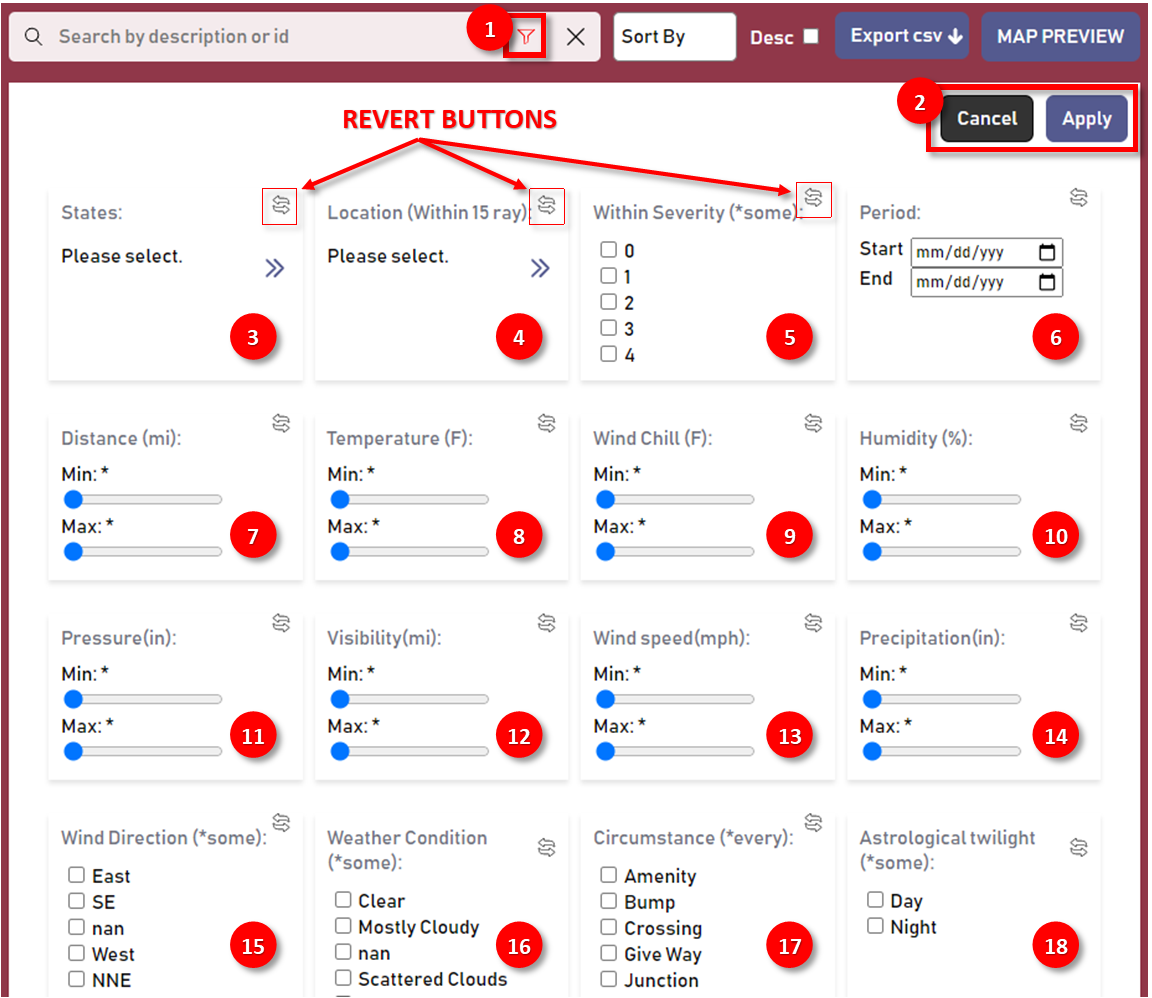
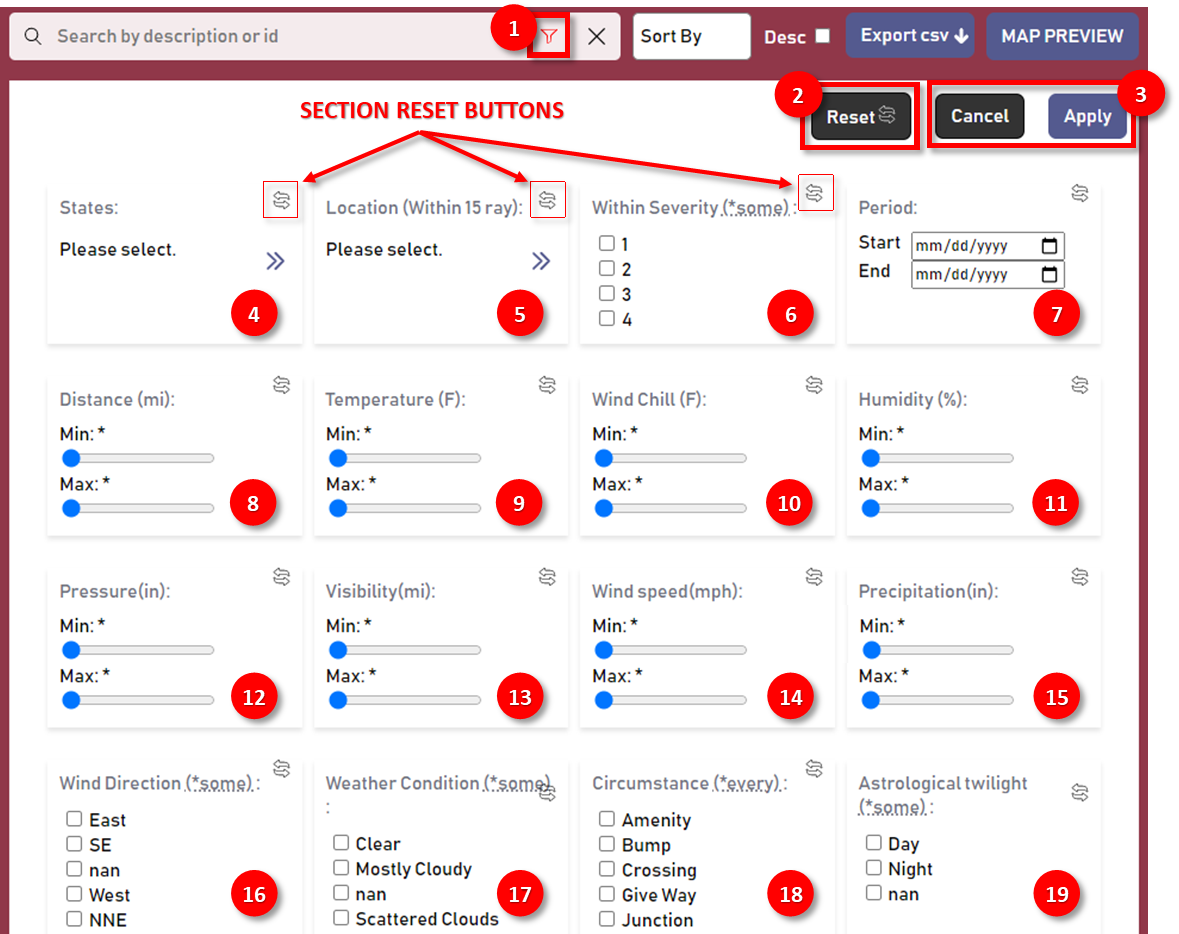
chart page documentation

diff --git a/Views/Report.php b/Views/Report.php
@@ -429,13 +429,13 @@
                     <h3><span>3.1.1.1 </span> Result item template</h3>
                     
                     <figure class="report-centered-fig">
-                        <img src="/assets/images/report/accident-card.png" alt="">
+                        <img src="/assets/images/report/accident-card.png" alt="Result item template">
                         <figcaption>Fig. 1 - Result item template</figcaption>
                     </figure>
                     
                     <ol>
                         <li><strong>Date and time of the accident,</strong> required not only for the chronological placement but also for creating meaningful and accurate forecasts, correlations with other events and factors that can affect the evolution of the number of the accidents.</li>
-                        <li><strong>Severity</strong>, describes the severity of the accidents, starting with 0 for highly severe to 4 for the least severe</li>
+                        <li><strong>Severity</strong>, describes the severity of the accidents, starting with 1 for highly severe to 4 for the least severe.</li>
                         <li><strong>ID</strong>, it is a number that helps users and other systems uniquely identify each accident.</li>
                         <li><strong>City </strong>and <strong>State </strong>where the accident happened, the state name is abbreviated for clarity reasons.</li>
                         <li><strong>Description</strong>, is a brief explanation of the location, cause or other significant details regarding the accident with the scope of providing the reader with a better understanding of the situation.</li>
@@ -450,19 +450,19 @@
                 <section id="extIntReqUISearchPageSearch">
                     <h3><span>3.1.1.1 </span> Search input</h3>
                     
-                        The goal of this section is to filter results using user input and access some other hidden section (the filter section that is hidden).
+                        The goal of this section is to filter results using user input and access some other hidden section (e.g. the hidden filter area).
                     <figure class="report-centered-fig">
                         <img src="/assets/images/report/search-bar.png" alt="Search bar">
                         <figcaption>Fig. 2 - Search bar</figcaption>
                     </figure>
                     
                     <ol>
-                        <li><strong>Search box</strong>. Offers users the possibility to search accidents by description or id.</li>
-                        <li><strong>Search button</strong>. The users need to press the search button after they entered the text they wish to search in order to get the desired results.</li>
-                        <li><strong>Revert search button</strong>. This button is used for reverting the search results to the standard, unfiltered status. It will not change the &quot;Sort by&quot; button status therefore the order of the results will not change.</li>
-                        <li><strong>Filter button</strong>. Used for displaying the filter section that helps the advanced users to retrieve more accurate and specific data.</li>
-                        <li><strong>Sort button</strong>. When accessed, this button displays a list of 14 characteristics (e.g. State, Location, Severity) that can be used for sorting the results. Once the user selects one of these options, the system starts the search and then displays the results sorted by it. For reverting it, the user must select the Sort by option from the list.</li>
-                        <li><strong>Descending order checkbox</strong>. By checking this, the results will be ordered descending and ascending if it is unchecked. The changes will be immediately visible after checking/unchecking it therefore the user does not need to press the search button again.</li>
+                        <li><strong>Search box</strong>, offers users the possibility to search accidents by description or id.</li>
+                        <li><strong>Search button</strong>, the users need to press the it after they entered the text they wish to search in order to get the desired results.</li>
+                        <li><strong>Revert search button</strong>, used for reverting the search results to the standard, unfiltered status. It will not change the &quot;Sort by&quot; button status therefore the order of the results will not change.</li>
+                        <li><strong>Filter button</strong>, used for displaying the filter section that helps the advanced users to retrieve more accurate and specific data.</li>
+                        <li><strong>Sort button</strong>, when accessed, this button displays a list of 14 characteristics (e.g. State, Location, Severity) that can be used for sorting the results. Once the user selects one of these options, the system starts the search and then displays the results sorted by it. For reverting it, the user must select the "Sort by" option from the list.</li>
+                        <li><strong>Descending order checkbox</strong>, by checking this, the results will be ordered descending or ascending if it is unchecked. The changes will be immediately visible after checking/unchecking it therefore the user does not need to press the search button again.</li>
                     </ol>
                     <p>
                         The buttons and inputs are disabled while a search is in progress. Another indicator of a search being in progress is the loader present in place of the results.
@@ -476,83 +476,98 @@
                 <!-- SEARCH-PAGE ->>> FILTER SECTION -->
                 <section id="extIntReqUISearchPageFilter">
                     <h3><span>3.1.1.2 </span> Filter section</h3>
-                    <p>The filter area is hidden but can be toggled using the button from the search bar described in the previous section. The filter area is clustered into 16 different groups, and each of these has its own reset button. In this way, the user can revert a filtering criterion without affecting the others. For the results to reflect the changes after resetting a group, the user must press the Apply button or Cancel otherwise. If the user wants to exit the filter area, he can press the Cancel button or click in the area outside of it.
-                    </p>
+                    <p>The filter area is hidden but can be toggled using the button from the search bar described in the previous section.</p> 
+                    <p>The filter area is clustered into 16 different groups, and each of these has its own reset button. In this way, the user can revert a filtering criterion without affecting the others. For the results to reflect the changes after resetting a group, the user must press the Apply button or Cancel otherwise.</p>
                     <figure class="report-centered-fig">
-                        <img src="/assets/images/report/filter-section.png" alt="Search in progress">
+                        <img src="/assets/images/report/filter-section.png" alt="Filter section">
                         <figcaption>Fig. 4 - Filter section</figcaption>
                     </figure>
                     <ul>
                         <li><strong>1. Filter toggle button</strong>, used for displaying the filter section.</li>
-                        <li><strong>2. Cancel and Apply buttons</strong>, used for applying or canceling the filtering criteria entered by the user. </li>
+                        <li><strong>2. Reset button</strong>, has almost the same behaviour as the individual group reset button, with the difference that this resets the values for all filtering groups.</li>
+                        <li><strong>3. Cancel and Apply buttons</strong>, used for applying or canceling the filtering criteria entered by the user. </li>
                         <li>
-                            <strong>3. State</strong>, enables users to get the accidents only from some specific states. For this, users must press the arrow button that will pop out a window with the 49 states of the US to select the desired states (Fig. 5). After checking them, the user must press the Apply or Cancel in order for the settings to appear or not. When the Apply button is selected, the states will be shown as in Fig. 6. From this view, if the user changes their mind, he can press the x button after the state name, and it will be excluded from the filter. If the user wants to add more states, he can click the arrow button again and repeat the process.
+                            <strong>4. State</strong>, enables users to get the accidents only from some specific states. For this, users must press the arrow button that will pop out a window with the 49 states of the US to select the desired states (Fig. 5). After checking them, the user must press the Apply or Cancel in order for the settings to appear or not. When the Apply button is selected, the states will be shown as in Fig. 6. From this view, if the user changes their mind, he can press the x button after the state name, and it will be excluded from the filter. If the user wants to add more states, he can click the arrow button again and repeat the process.
                             <div class="inline-figures">
                                 <figure>
-                                    <img src="/assets/images/report/states-pop-up.png" alt="Search in progress">
+                                    <img src="/assets/images/report/states-pop-up.png" alt="Pop up with the state list">
                                     <figcaption>Fig. 5 - Pop up with the state list</figcaption>
                                 </figure>
                                 <figure>
-                                    <img src="/assets/images/report/selected-states.png" alt="Search in progress">
+                                    <img src="/assets/images/report/selected-states.png" alt="View of the selected states">
                                     <figcaption>Fig. 5 - View of the selected states</figcaption>
                                 </figure>
                             </div>
                         </li>
                         <li>
-                            <strong>4. Location (Within 15 ray)</strong>, enables users to retrieve the accidents that are located within a 15 ray of the location selected by them on the map (Fig. 6) that will pop out after clicking the arrow button from this section. In the map pop up, the user can select a location by clicking it on the map then the selected coordinates will appear in the right bottom corner. For an accurate localization, the users can zoom in or out using the mouse wheel or the "+" or "-" buttons on the left top corner. The users can visualise the different areas of the map using drag and drop movements. In the end, the user should press the Apply button if he wants to keep the settings, otherwise the Cancel button. After the selection is made, the coordinates will be shown as in Fig. 7.
+                            <strong>5. Location (Within 15 ray)</strong>, enables users to retrieve the accidents that are located within a 15 ray of the location selected by them on the map (Fig. 6) that will pop out after clicking the arrow button from this section. In the map pop up, the user can select a location by clicking it on the map then the selected coordinates will appear in the right bottom corner. For an accurate localization, the users can zoom in or out using the mouse wheel or the "+" or "-" buttons on the left top corner. The users can visualize the different areas of the map using drag and drop movements. In the end, the user should press the Apply button if he wants to keep the settings, otherwise the Cancel button. After the selection is made, the coordinates will be shown as in Fig. 7.
                             <div class="inline-figures">
                                 <figure>
-                                    <img src="/assets/images/report/map-pop-up.png" alt="Map pop up">
+                                    <img src="/assets/images/report/map-pop-up.png" alt="Pop up with the map">
                                     <figcaption>Fig. 6 - Pop up with the map</figcaption>
                                 </figure>
                                 <figure>
-                                    <img src="/assets/images/report/selected-coordinates.png" alt="Selected coordinates">
+                                    <img src="/assets/images/report/selected-coordinates.png" alt="View of the selected coordinates">
                                     <figcaption>Fig. 7 - View of the selected coordinates</figcaption>
                                 </figure>
                             </div>
                         </li>
-                        <li><strong>5. Within Severity (*some)</strong>, allows users to retrieve only the accidents that have one of the selected severities. The users can select multiple options.</li>
-                        <li><strong>6. Period</strong>, allows users to retrieve accidents that happened at specific periods of time. If both start and end date are completed, the users will get all the accidents that occurred between these dates. However, the users are not required to complete both. They can enter only the start date, and so they will get all accidents from the start date till the present moment, or only the end date if they want the accidents till a specified date.</li>
-                        <li><strong>7. Distance (mi)</strong>, allows users to get the accidents that have the distance (from the crash spot to the place where the car stops) between a minimum and maximum value. The users is not required to enter both values because if only the minimum value is specified the maximum will be implicitely the highest value in the database and vice versa.</li>
-                        <li><strong>8 - 14: Temperature (F), Wind Chill (F), Humidity (%), Pressure(in), Visibility(mi), Wind speed(mph), Precipitation(in)</strong>, allows the accidents filtering by the minimum and/or maximum values of the prior named wheather characteristics. The units of measurement are specified in parentheses.</li>
-                        <li><strong>15. Wind Direction (*some)</strong>, fetches the accidents that happened when the wind dirrection was at least like one of the checked values.</li>
-                        <li><strong>16. Weather Condition (*some)</strong>, helps the users fetch only the accidents that happened when the weather had at least one of the selected characteristics.</li>
-                        <li><strong>17. Circumstance (*every)</strong>, gets the accidents that happened under all the selected circumstances.</li>
-                        <li><strong>18. Astrological twilight (*some)</strong>, enables the filtering of the accidents by time of the day.</li>
+                        <li><strong>6. Within Severity (*some)</strong>, allows users to retrieve only the accidents that have one of the selected severities. The users can select multiple options.</li>
+                        <li><strong>7. Period</strong>, allows users to retrieve accidents that happened at specific periods of time. If both start and end date are completed, the users will get all the accidents that occurred between these dates. However, the users are not required to complete both. They can enter only the start date, and so they will get all accidents from the start date till the present moment, or only the end date if they want the accidents till a specified date.</li>
+                        <li><strong>8. Distance (mi)</strong>, allows users to get the accidents that have the distance (from the crash spot to the place where the car stops) between a minimum and maximum value. The users are not required to enter both values because if only the minimum value is specified, the maximum will be implicitely the highest value in the database and vice versa.</li>
+                        <li><strong>9 - 15: Temperature (F), Wind Chill (F), Humidity (%), Pressure(in), Visibility(mi), Wind speed(mph), Precipitation(in)</strong>, allows the accidents filtering by the minimum and/or maximum values of the prior named weather characteristics. The units of measurement are specified in parentheses.</li>
+                        <li><strong>16. Wind Direction (*some)</strong>, fetches the accidents that happened when the wind direction was at least like one of the checked values.</li>
+                        <li><strong>17. Weather Condition (*some)</strong>, helps the users fetch only the accidents that happened when the weather had at least one of the selected characteristics.</li>
+                        <li><strong>18. Circumstance (*every)</strong>, gets the accidents that happened under all the selected circumstances.</li>
+                        <li><strong>19. Astrological twilight (*some)</strong>, enables the filtering of the accidents by time of the day.</li>
                     </ul>
                 </section>
 
                 <!-- SEARCH-PAGE ->>> PAGINATION SECTION -->
                 <section id="overallDescription-AssumptionsDependencies-11">
                     <h3><span>3.1.1.3 </span> Pagination </h3>
-                    <p>
-                        describe how many per page (3 options 10, 20, 50) 
-                        when filters are changing pagination resets
-                    </p>
+                    <p>Because we take into account the different needs and behaviour characteristics of the site visitors, we offer them the possibility to change the number of accidents card boxes that are displayed on each page. By default, on a page are displayed 20 card boxes, but the users can choose to have on a page either 10, 20, 30 or 50 card boxes, as shown in Fig. 8.</p>
+                    <p>As we work with large data sets, the user has the ability to navigate backwards and forwards using the arrow buttons or the numbered buttons (within ten pages, prior or after the current page). The current page number is coloured in wheat yellow for the user to know where he is in the search results.</p>
+                    <figure class="report-centered-fig">
+                        <img src="/assets/images/report/cardboxes-per-page.png" alt="Search page navigation">
+                        <figcaption>Fig. 8 - Search page navigation with the option to change the elements displayed on a page</figcaption>
+                    </figure>
                 </section>
 
                 <!-- SEARCH-PAGE ->>> EXPORT UI -->
                 <section id="overallDescription-AssumptionsDependencies-12">
                     <h3><span>3.1.1.4 </span> Export UI </h3>
-                    <p>
-                        describe that results from the page are exported (that are filtered)
-                    </p>
+                    
 
                     <section id="overallDescription-AssumptionsDependencies-13">
                         <h3><span>3.1.1.4.1 </span> Export CSV </h3>
-                        <p>
-                            describe and show something
-                        </p>
+                        <p>The user has the ability to export the wanted data in CSV format for further analysis and processing by being easily imported in more advanced data visualization or analytics tools.</p>
+                        <p>After the user got the desired results by using the search and filtering options, he has to chose from two alternatives (Fig. 9):</p>
+                        <figure class="report-centered-fig">
+                            <img src="/assets/images/report/export-options.png" alt="Export options">
+                            <figcaption>Fig. 9 - Export options</figcaption>
+                        </figure>
+                        <ol>
+                            <li><strong>Export this page</strong>.</li>
+                            <li><strong>Export all (10k results limit)</strong>, by selecting this option, the user will get a CSV file with all the search and filtering results. Due to server-side performance constraints and the extensive volume of data, we had to limit the export capabilities up to 10000 results.</li>
+                        </ol>
                     </section>
 
                     <section id="overallDescription-AssumptionsDependencies-14">
                         <h3><span>3.1.1.4.1 </span> Cartographic export and visualization </h3>
-                        <p>
-                            describe how can you see points on the map and on click it shows information
-                        </p>
-                        <p>[..show-images..]</p>
 
-                        <p> Explain that can be exported in webp and svg with those buttons </p>
+                        <p>For an accessible overview of the data, the site offers users the possibility to preview the data on the map by clicking the <strong>"MAP PREVIEW"</strong> left to the export button. In the map are shown only the accidents from the current search page.</p>
+
+                        <figure class="report-centered-fig">
+                            <img src="/assets/images/report/map-preview-window.png" alt="Map preview window">
+                            <figcaption>Fig. 9 - Map preview window</figcaption>
+                        </figure>
+
+                        <p>Each accident is represented on the map as a coloured circle at the point where the accident happened. The circle is coloured according to the accident severity, starting with dark red for the most severe accidents and lowering in intensity till it reaches pale pink for the least severe ones.</p>
+
+                        <p>By clicking on a circle on the map, a pop-up window with more information about the accident will appear. In this pop-up are included the accident date, city, id and a short description. The pop-up can be closed by pressing the <strong>"x"</strong> button.</p>
+                        <p>The users can zoom in or out using the mouse wheel or the "+" or "-" buttons on the left top corner, and can visualize the different areas of the map using drag and drop movements.</p>
+                        <p>The user has the ability to export the map as an SVG or WEBP file using the buttons <strong>"Export SVG"</strong> and <strong>"Export WEBP"</strong> if he wants to store and use the map later.</p>
                     </section>
 
                 </section>
@@ -562,44 +577,64 @@
             <!-- CHART-PAGE ->>> >>> >>>->>> >>> >>>->>> >>> >>>->>> >>> >>> -->
             <section id="overallDescription-AssumptionsDependencies-15">
                 <h3><span>3.1.2 </span> Chart page</h3>
-                <p>
-                    [...purpose...]
-                </p>
+
+                <p>Being able to visualize data in charts and graphs is especially useful when working with large data sets, as it's the case here. When the data is represented in a visual context, it is easier for human users to interpret it, identify trends and patterns, and reach conclusions.</p>
+                <p>To help users achieve this goal, the site offers the possibility of visualizing data in three different charts described below.</p>
 
                 <!-- CHART-PAGE ->>> Chart 'Number of cases per state' -->
                 <section id="overallDescription-AssumptionsDependencies-16">
-                    <h3><span>3.1.2.1 </span> Chart number of cases per state </h3>
-                    <p>
-                        image and describe interaction
-                    </p>
+                    <h3><span>3.1.2.1 </span> Chart 1: Number of cases per state </h3>
+                    <p>This doughnut chart gives a comparative overview of the number of accidents for each state by putting them in contrast with each other.</p>
+                    <p>By hovering over each chart slice, a tooltip with the state name and accidents number will appear to provide more insights.</p>
+                    <p>The legend is situated in the top part of the chart and contains the states name and the associated colour. From here the user can also interact with the chart excluding/including different states from/in this visualization by clicking on the state name or colour. When an item is excluded from the chart, it will be marked with a strikethrough.</p>
+                    
+                    <figure class="report-centered-fig">
+                        <img src="/assets/images/report/chart-number-of-cases-per-state.png" alt="Chart 1: Number of cases per state">
+                        <figcaption>Fig. 10 - Chart 1: Number of cases per state</figcaption>
+                    </figure>
+
                 </section>
 
 
                 <!-- CHART-PAGE ->>> Chart severity -->
                 <section id="overallDescription-AssumptionsDependencies-17">
-                    <h3><span>3.1.2.2 </span> Chart severity </h3>
-                    <p>
-                        image and describe (how can you see result OVERALL or PER STATE), describe interactions
-                    </p>
+                    <h3><span>3.1.2.2 </span> Chart 2: Number of cases grouped by severity overall and per state</h3>
+                    <p>In this pie chart is highlighted the distribution of accidents by severity. Here, the users are able to visualise this distribution per total or at the state level by selecting this from the drop-down list in the top left of the chart.</p>
+                    <p>As was the case for the previous chart, when the user hovers its mouse over a chart slice, it will appear a tooltip with the severity type and the number of accidents.</p> 
+                    <p>The legend is situated at the top of the chart and depicts the severity types and the associated colours. By clicking the name or the colour of an element, it will be excluded from the chart and marked with a strikethrough.</p>
+                    <div class="inline-figures">
+                        <figure style="width: 49.3%;">
+                            <img src="/assets/images/report/chart-number-of-cases-by-severity-overall.png" alt="Chart 2: Overall number of cases grouped by severity">
+                            <figcaption>Fig. 11 - Chart 2: Overall number of cases grouped by severity</figcaption>
+                        </figure>
+                        <figure style="width: 49.3%;">
+                            <img src="/assets/images/report/chart-number-of-cases-by-severity-north-carolina.png" alt="Chart 2: Number of cases grouped by severity for North Carolina with the severity one excluded">
+                            <figcaption>Fig. 12 - Chart 2: Number of cases grouped by severity for North Carolina with the severity one excluded</figcaption>
+                        </figure>
+                    </div>
                 </section>
 
                 <!-- CHART-PAGE ->>> CHART Timeline -->
                 <section id="overallDescription-AssumptionsDependencies-18">
-                    <h3><span>3.1.2.3 </span> Chart timeline </h3>
-                    <p>
-                        describe 4 curbes for each year (2016-2020)
-
-                        describe interaction
-                    </p>
-                    <p>
+                    <h3><span>3.1.2.3 </span> Chart 3: Timeline of cases per year </h3>
+                    <p>This line chart offers a comparative visualization of the monthly evolution of the number of accidents for each year.</p>
+                    <p>The horizontal axis depicts the time progression in months, and on the vertical one, the number of accidents.</p>
+                    <p>When the users hover over the month points on the lines, will appear a tooltip with the name of the year and the number of accidents for the selected month.</p>
+                    <p>At the top of the chart is the legend with the years and their colour. By clicking a legend element, this will be excluded/included from/in the chart. The excluded items are marked with a strikethrough.</p>
+                    <figure class="report-centered-fig">
+                        <img src="/assets/images/report/chart-timeline-of-cases-per-year.png" alt="Chart 1: Number of cases per state">
+                        <figcaption>Fig. 13 - Chart 3: Timeline of accidents per year</figcaption>
+                    </figure>
                 </section>
 
                 <!-- CHART-PAGE ->>> EXPORT SECTION -->
                 <section id="overallDescription-AssumptionsDependencies-19">
                     <h3><span>3.1.2.4 </span> Export chart</h3>
-                    <p>
-                        show image and say that can be exported...
-                    </p>
+                    <p>If the user wants to store the chart for future use, he has the ability to export the image in WEBP or SVG format. Also, the chart data can be exported in CSV format for further processing. All third options can be accessed in the right section of the charts, in the export section.</p>
+                    <figure class="report-centered-fig">
+                        <img src="/assets/images/report/chart-page.png" alt="The export section from chart page">
+                        <figcaption>Fig. 14 - The export section from chart page</figcaption>
+                    </figure>
                 </section>
             </section>
             <!-- INSERT NEXT PAGE ->>> >>> >>>->>> >>> >>>->>> >>> >>>->>> >>> >>> -->
